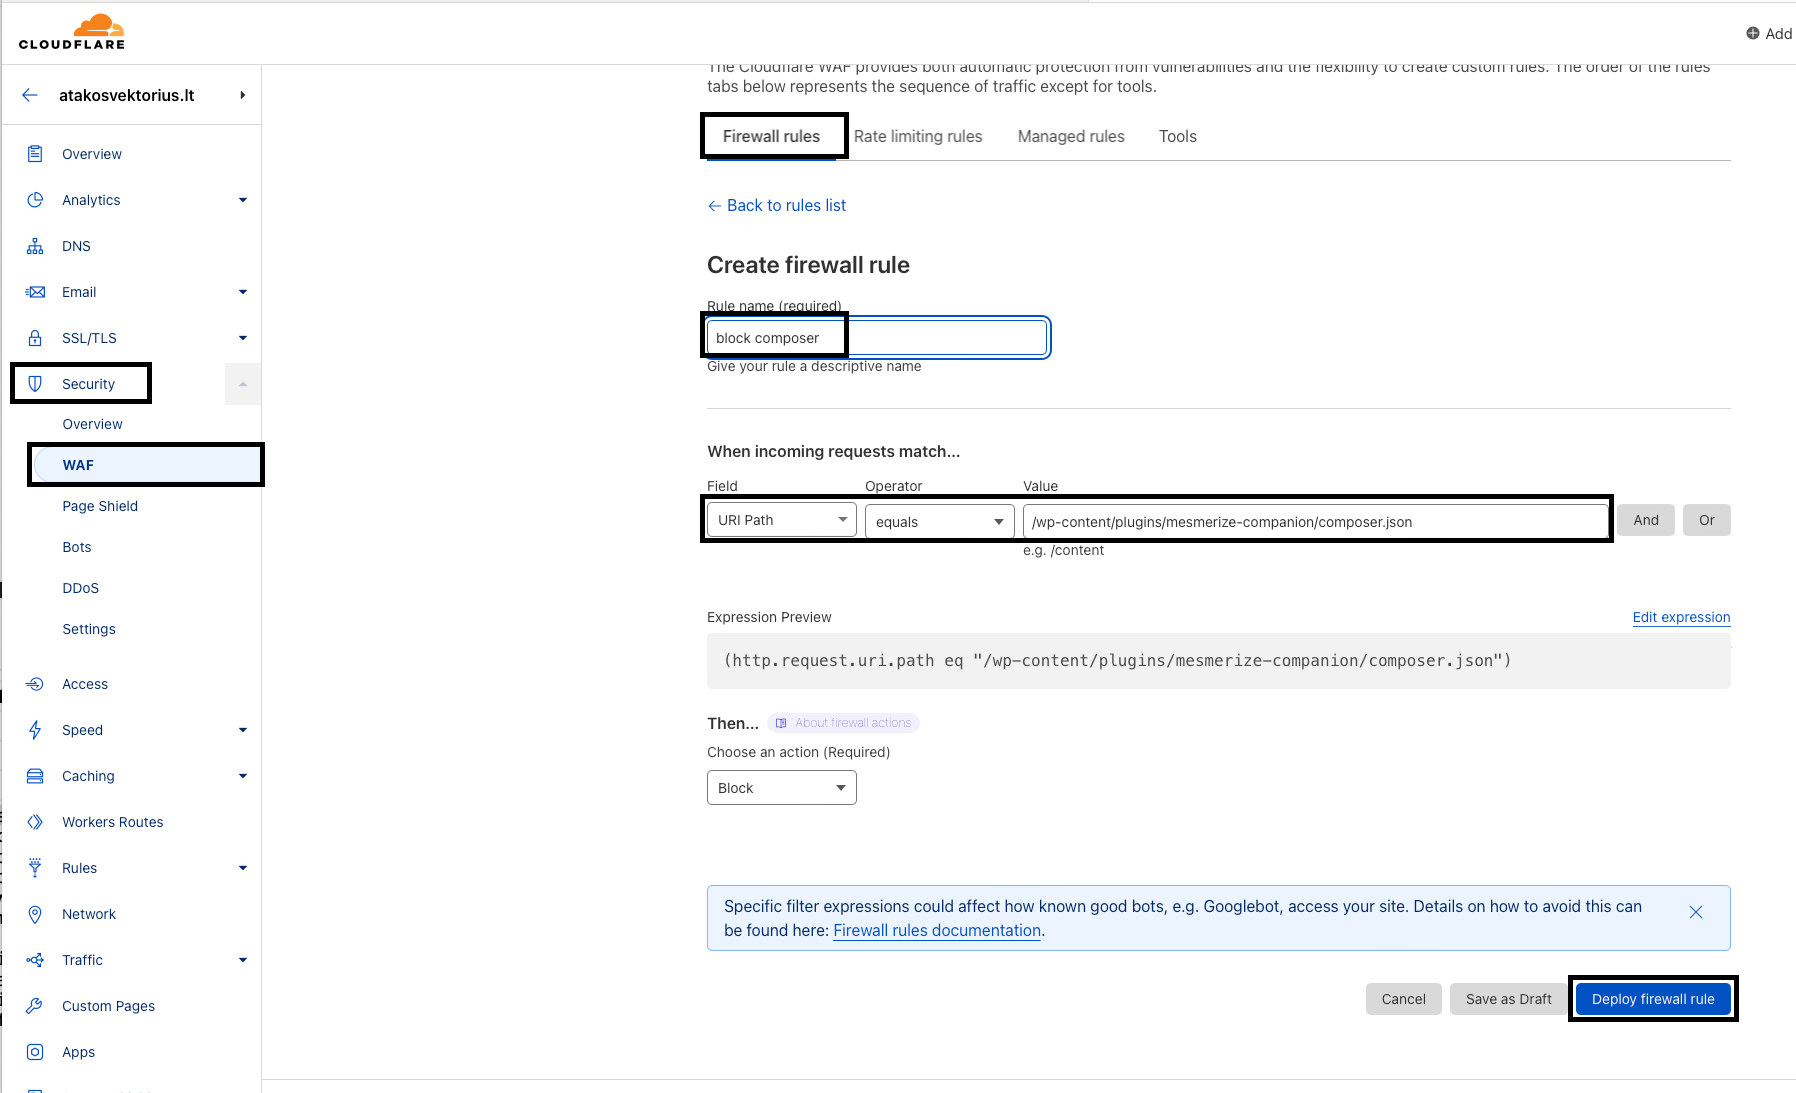
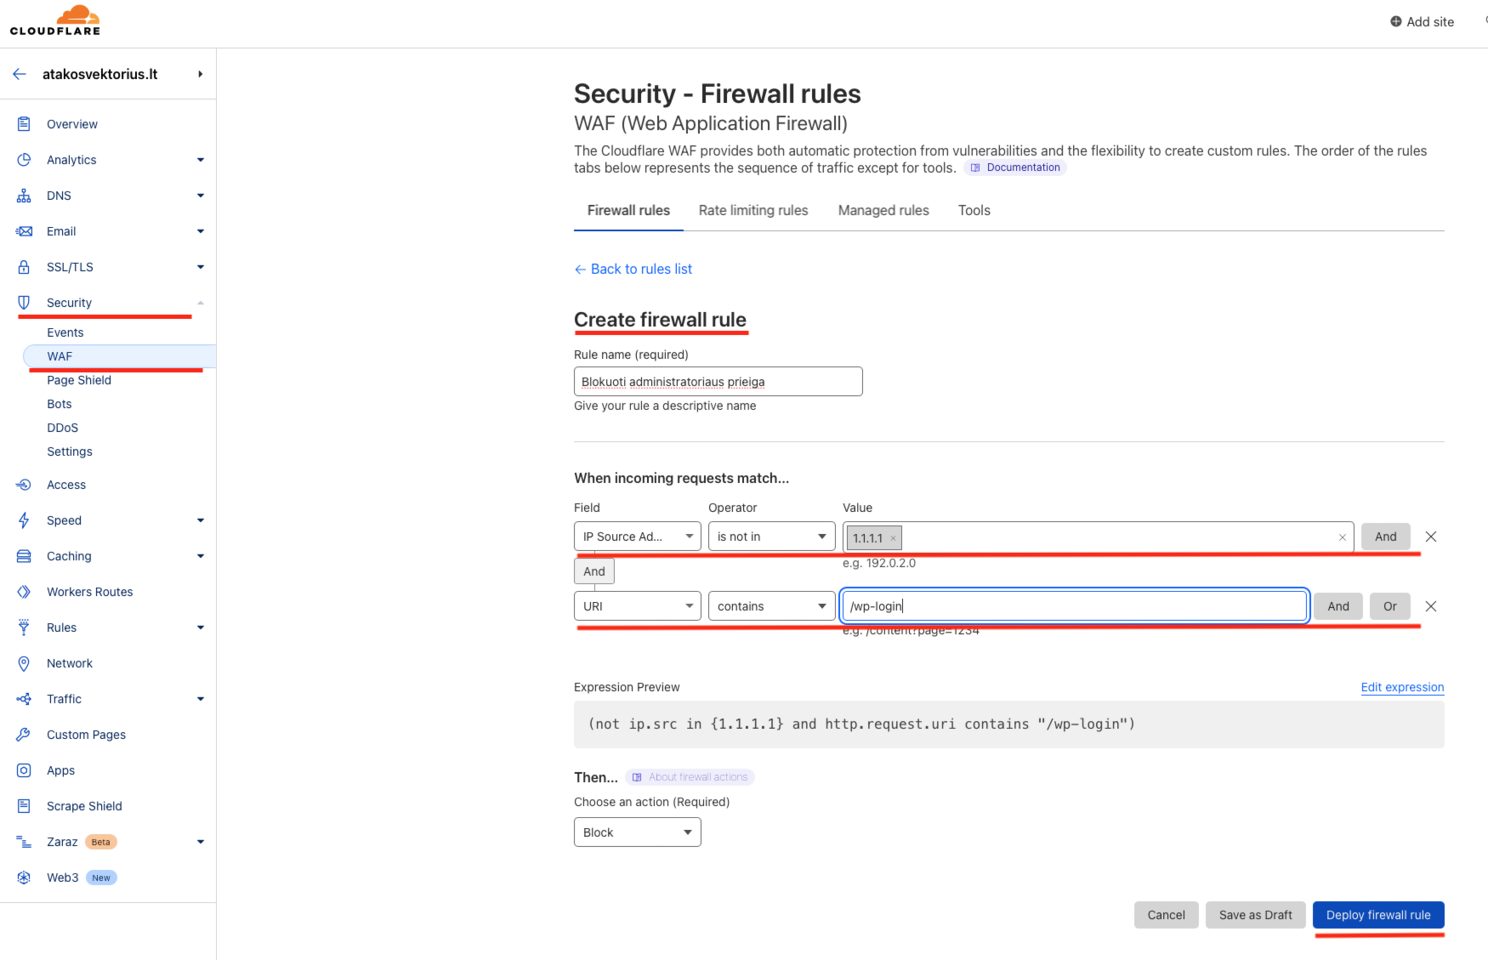
WAF

diff --git a/cloudflare.html b/cloudflare.html
@@ -7,7 +7,7 @@
     <meta name="description" content="Pažeidžiamumų įvertinimas su technologiškai vienu pažangiausiu DAST įrankiu rinkoje" />
     <meta name="keywords" content="Asmens duomenų apsauga, duomenų tvarkymo saugumas, pritaikytoji ir standartizuotoji duomenų apsauga, SDLC, pažeidžiamumu įvertinimas, įsiskverbimo į IT sistemas testavimas, etiškas įsilaužimas, kibernetinis saugumas" />
     <meta name="author" content="Tomas Savėnas" />
-    <title>Kas tai yra Cloudflare?</title>
+    <title>Netinkama saugumo konfigūracija A05:2021</title>
     <link href="css/styles.css" rel="stylesheet" />
     <link rel="stylesheet" href="css/aos.css" />
     <link rel="icon" type="image/x-icon" href="assets/img/favicon.png" />
@@ -55,14 +55,14 @@
                             <div class="row gx-5 justify-content-center">
                                 <div class="col-lg-10 col-xl-8">
                                     <div class="single-post">
-                                        <h1>Griežtesnė Cloudflare apsauga</h1>
+                                        <h1>Netinkama saugumo konfigūracija A05:2021</h1>
                                         <p class="lead">Kokius tris žingsnius reikia atlikti po domeno nukreipimo į Cloudflare?</p>
                                         <div class="d-flex align-items-center justify-content-between mb-5">
                                             <div class="single-post-meta me-4">
                                                 <img class="single-post-meta-img" src="assets/img/demo/savenas.jpg" />
                                                 <div class="single-post-meta-details">
                                                     <div class="single-post-meta-details-name">Tomas Savėnas</div>
-                                                    <div class="single-post-meta-details-date">Lapkričio 27 d. 5 min. skaityti</div>
+                                                    <div class="single-post-meta-details-date">Vasario 09 d. 4 min. skaityti</div>
                                                 </div>
                                             </div>
                                             <div class="single-post-meta-links">
@@ -71,66 +71,115 @@
                                                 <a href="https://www.linkedin.com/in/savenas/"><i class="fab fa-linkedin fa-fw"></i></a>
                                             </div>
                                         </div>
-                                            <h2>Įvadas</h2>
-                                            <p>Cloudflare yra viena populiariausių interneto svetainių apsaugos priemonių rinkoje. Tai lyg skydas priešais svetainės serverį, kuris naudoja Reverse Proxy technologiją atlikti šias tris pagrindines funkcijas:</p>
-                                            <ul>
-                                                <li>Anti-DDoS apsaugą, kurios metu yra paslepiamas serverio IP adresas ir sulaikomas didelis kiekis kenksmingo srauto;</li>
-                                                <li>CDN, sparčiau aptarnauti nutolusius regionus;</li>
-                                                <li>WAF, skirta riboti prieigą prie aplikacijos ir apsaugoti nuo kenkėjiško kodo pvz.: SQLi, XSS, LFI ir kitų injekcijų.</li>
-                                            </ul>
-                                            <p>Žemiau pateikiama vaizdo iškarpa su Reverse Proxy srauto schema.</p></br>
-
+                                            <p>Pratęsime informacinių sistemų atakos vektorių temą, šį kartą kalbėsime detaliau apie netinkamos saugumo konfigūracijos atvejus pagal OWASP A05:2021.</p>
+                                            <h2>Problema</h2>
+                                            Iš visų Lietuvos interneto svetainių TVS yra 67514 ir beveik 70% šių sistemų turėjo atvirą administratoriaus prieigą tokia kaip "/wp-login.php" ar "/administrator" [1]. Tai nėra laikoma saugia konfigūracija, nes slaptažodžius per laiką gali atspėti.</p>
                                             <img class="img-fluid mb-2 rounded" src="assets/img/demo/CDN.png" />
-                                            <div class="small text-gray-500 text-center">Vaizdo iškarpa koreguota: Cloudflare</div>
                                             <div class="single-post-text my-5">
-                                            <p>Jeigu dar nesate nukreipė savo domeno į Cloudflare, padarykite tai dabar užsiregistruodami nemokamai: https://dash.cloudflare.com/sign-up</p>
-                                            <p>CDN ir Anti-DDoS apsauga pradeda veikti iškarto po nukreipimo, o kitas funkcijas reikia patiems įjungti.</p> 
-
-                                            <p>Taigi, srautas jau yra nukreiptas į Cloudflare infrastruktūrą ir žinome kaip tai veikia, toliau eikime prie trijų žingsnių konfigūracijos skirtos dar labiau sugriežtinti apsaugą.</p>
-
-                                            <h2>Pirmas žingsnis</h2>
-
-                                            <p>Reikia nustatyti ugniasienės saugančios Jūsų serverį taisykles white-list principu. Cloudflare serverio IP adresai: nuorodą https://www.cloudflare.com/ips-v4 leisti į prievadus 80, 443, o visą kitą srautą uždrausti. Žemiau pateikiamas pavyzdys Apache konfigūracija .htaccess faile.</p>
-                                            <img class="img-fluid mb-2 rounded" src="assets/img/demo/htaccess.png" />
-                                            <div class="small text-gray-500 text-center">Vaizdo iškarpa: autoriaus</div>
-                                            <div class="single-post-text my-5">
-
-                                            <p>Šis žingsnis yra labai svarbus, nes patyrę programišiai gali surasti serverio IP adresą DNS istoriniuose įrašuose ir rankinių būdų nukreipti srautą. Žemiau pateikiamas srauto diagramos pavyzdys.</p>
-                                                                          
-                                            <img class="img-fluid mb-2 rounded" src="assets/img/demo/bypass.png" />
-                                            <div class="small text-gray-500 text-center">Vaizdo iškarpa koreguota: Cloudflare</div>
-                                            <div class="single-post-text my-5">
-                                            <h2>Antras žingsnis</h2>
-                                            <p>Cloudflare saugumo savitarnoje reikia pakeisti iš TLS 1.0 į TLS 1.2 minimiai palaikomą versiją. Šį konfigūracija jau nėra laikoma saugią, nes piktavaliai vietiniame tinkle galėtų įsiterpti į šifruoto ryšio sesiją ir pavogti duomenis.</p>
-                                            <img class="img-fluid mb-2 rounded" src="assets/img/demo/tls.png" />
-                                            <div class="small text-gray-500 text-center">Vaizdo iškarpa: autoriaus</div>
-                                            <div class="single-post-text my-5">
-                                           
-                                            <h2>Trečiasis žingsnis</h2>
-                                            <p>Cloudflare WAF savitarnoje reikia sukurti prieigos valdymo taisykles white-list principu. Savo IP adresus leisti, o kitiems drausti prie administratoriaus valdymo paneles ar kitų jautrių resursų.</p>
-                                            <img class="img-fluid mb-2 rounded" src="assets/img/demo/waf.png" />
-                                            <div class="small text-gray-500 text-center">Vaizdo iškarpa: autoriaus</div>
-                                            <div class="single-post-text my-5">
-                                            <h2>Pabaigai</h2>
-
-                                            <p>Šiuo metu aktuali problema yra interneto robotai. Tai tampa iššūkiu internetinia verslui - kaip atskirti žalingus nuo naudingu? Cloudflare siūlo naudoti "Bot Fight Mode", tačiau ši priemonė kaip ir OWASP taisyklės yra sofistikuoti sprendimai. Tikėtina, kad kai kuriuos užklausos bus identifikuotos klaidingai.
-                                            </p>
 
                                             <p>
-                                                Nors iš pirmo žvilgsnio skydas atrodo kaip greitesnis ir lengvesnis sprendimas, bet efektyviau yra pašalinti spragas iš programinio kodo.
-                                            <p>  
+                                            Nors administratoriaus slaptažodis ir bus sudėtingas, tačiau spėliojimas yra nereikalinga grėsmė, kurią galimą lengvai užkardanti. Tai galima padaryti paslaugų tiekėjo nustatymuose. Žinoma jie gali skirtis, o kai kurie tiekėjai turi papildomos apsaugos priemonių, taigi apžvelkime tiekėjus.</p>
+                                            <h2>Tyrimas
+                                            </h2>
+                                            <p>Norime pasiūlyti rekomendacijas, tam mes atlikome tyrimą suprasti kaip talpinamos Lietuvos interneto svetainės. Peržiūrėjome maždaug turimų 120,000 domenų su lt galūnę ir žemiau pateikiame dešimtuką paslaugų tiekėjų:</p>
+                                            <img class="img-fluid mb-2 rounded" src="assets/img/demo/ASN.png" />
+                                            <div class="small text-gray-500 text-center">Tiekėjų autonominės sistemos</div>
+                                            <div class="single-post-text my-5">
+                                            <h2>Sprendimas</h2>
+                                            Kaip matome didžioji dalis yra prieglobos tiekėjai, o kito tyrimo metu sužinojome dažniausiai sutinkama Apache paslauga. Todėl apriboti prieigą galime per .htacces failą, čia rasite instrukcijas, kurias sudarė IV [2].</p>
+                                            <p>
+                                            Toliau sąraše matome Cloudflare, tai yra viena populiariausių interneto svetainių apsaugos priemonių rinkoje. Tai lyg skydas priešais svetainės serverį, kuris naudoja Reverse Proxy technologiją atlikti šias pagrindines funkcijas:
+                                            <ul>
+                                                <li>Anti-DDoS | paslepiamas pirminis serveris ir sulaikomi kenksmingi paketai;</li>
+                                                <li>CDN | sparčiau užkraunami statiniai failai;</li>
+                                                <li>WAF | kenksmingo kodo filtras ir prieigos kontrolė;</li>
+                                                <li>Bot fight | interneto robotų prevencija.</li>
+                                            </ul>
+                                            </p>
+                                            <img class="img-fluid mb-2 rounded" src="assets/img/demo/Cloudflare.png" />
+                                            <div class="small text-gray-500 text-center">Cloudflare topologija</div>
+                                            <div class="single-post-text my-5">
 
-                                                Paprastai tvarkyti sistemos neskubama, nes nėra šalia profesionalios pagalbos.
+                                            <p>Nors Cloudflare populiari, tačiau ne visi išnaudoja šios apsaugos potencialą. Toliau aptarsime plačiau neapankamos saugumo konfigūracijos sprendimus siejamus su šią paslauga.</p>
+
+                                            <h2>Trys žingsniai</h2>
+
+                                            <p>Nors DDoS L3/4 apsauga veikia automatiškai, tačiau dauguma kitų priemonių skirtų apsaugoti HTTP protokolo lygyje neįjungta, tai atlikti turime patys.
+                                            Žemiau pateikiami trys pagrindiniai žingsniai, kuriuos reikia atlikti po DNS nukreipimo į Cloudflare.</p> 
+
+                                            <h2>Prieinamas pirminis serveris</h2>
+                                            <p>Reikia apriboti pirminio serverio prieiga per ugniasienę ar paslaugos tiekėją. Leiskite Cloudflare edge serverių IP adresus: [3], o visą kitą srautą uždrauskite.</p>
+                                            <img class="img-fluid mb-2 rounded" src="assets/img/demo/htaccess.png" />
+                                            <div class="small text-gray-500 text-center">Apache .htaccess konfigūracija</div>
+                                            <div class="single-post-text my-5">
+
+                                            <p>Tai galioja nepriklausomai ar tai Cloudflare ar kitas "Reverse Proxy". To nepadarius paliekama galimybė apeiti apsaugą, o tai padaryti galima nesunkiai rankiniu būdu nukreipti HTTP srautą radus IP adresą DNS istorijoje.</p>
+                                                                          
+                                            <img class="img-fluid mb-2 rounded" src="assets/img/demo/dns.png" />
+                                            <div class="small text-gray-500 text-center">DNS istorija šaltinis virustotal.com</div>
+                                            <div class="single-post-text my-5">
+                                            
+                                            <p>Žemiau matome rezultatą HTTP 403, kai kreipiamas į administratoriaus nuorodą, o tada rankiniu būdu nukreipiama HTTP užklausą ir jį nėra blokuojama.</p>                               
+                                            <img class="img-fluid mb-2 rounded" src="assets/img/demo/403.png" />
+                                            <div class="single-post-text my-5">
+                                
+                                            <h2>Administratoriaus valdymo pultas</h2>
+                                    
+                                            <p>Kaip anksčiau aptarėme dėl prieigos iš tam tikrų IP adresų prie "/wp-login" ar "/administrator" reikia riboti. Taigi Cloudflare saugumo savitarnoje prie WAF reikia sukurti prieigos valdymo taisyklę iš dviejų sąlygų:</p>
+                                            <p>- Jeigu tai ne mūsų IP adresas ir URI turi administratoriaus nuorodą tuomet blokuoti.</p>
+                                            <img class="img-fluid mb-2 rounded" src="assets/img/demo/waf.png" />
+
+                                            <div class="single-post-text my-5">
+
+                                            <h2>Minimali TLS versija</h2>
+
+                                            <p>Nors TLS 1.0 ir 1.1 konfigūracija jau nėra laikoma saugia ir naršyklių palaikančių jau praktiškai nebeliko, tačiau Cloudflare vis dar palieka įjungta, Jeigu jūsų klientai pat pat nenaudoja minėtų versijų, tuomet Cloudflare saugumo savitarnoje reikia pakeisti minimalią iš TLS 1.0 į TLS 1.2. Reikėtų pastebėti tai, kad PCI-DSS atiktis reikalauja ne mažesnės negu TLS 1.2.
+                                            <img class="img-fluid mb-2 rounded" src="assets/img/demo/tls.png" />
+
+                                            <div class="single-post-text my-5">
+                                            </p>
+
+                                            <p> Taigi tai buvo trys pagrindinės netinkamos saugumo konfigūracijos problemos.
+                                            
+                                            <h2>Kita</h2>
+
+                                            <p>  Žemiau išvardintoms priemonėms naudoti reikalingas tinkamas pasiruošimas. Priešingu atveju priemones sukels nepatogumu ir užims laiko, dažnu atveju reikia tvarkyti "False Positive" pranešimus.
+                                            </p>
+                                            <p>
+                                                Jos gali padaryt žalos įprastų naudotojų užklausoms, pavyzdžiui klientui gali būti sutrukdyta apsipirkti. Po kelių bandymų jam gali dingti kantrybė, o jus prarasite dalį pajamų. 
+                                            </p>
+                                            <p>
+                                            Reikia įvertinti kylančių grėsmių lygį ir pritaikyti tik tam tikras taisykles ar funkcijas, būtų geriau jeigu galima užtaisyti spragas programiniame kode ar sistemos konfigūracijoje.
+                                            </p>
+
+                                            <h2>Interneto robotai </h2>
+
+                                            <p>                                                  
+                                              Daugiau nei pusė viso interneto srauto sudaro šie automatizuoti instrukcijų rinkiniai, kuriems nereikia intensyvių skaičiavimo resursų [4].  Robotai gal atlikti pažeidžiamumų skenavimus, spėlioti esamus prisijungimus, registruoti naujus vartotojus, ar tiesiog varginti informacinę sistemą. Įprastai interneto robotai nevykdo naršyklėms būdingų JavaScript funkcijų.
+                                          </p>
+                                          <p>
+                                            Cloudflare siūlo naudoti "Bot Fight Mode", tačiau ši technologija yra sudėtinga, "Reverse Proxy" infrastruktūra yra paskirstyta, o HTTP užklausos gali būti asinchroninės ir lygiagrečios. Šią funkciją geriau naudoti tik tam tikroms nuorodoms ar sąlygoms, o ne visai TVS.</p>
+                                            <p>
+                                            Reikėtų pastebėti tai, kad yra galimybė apeiti "Bot Fight Mode" apsaugą su "begalve" naršyklė, kuri įvykdys JS kodą ir atliks tolimesnius veiksmus.
                                             </p>
 
 
+                                            <h2>OWASP WAF taisyklės</h2>
 
-                                            <h5>                                                  
-                                                Kviečiame registruotis pažeidžiamumų įvertinimui su technologiškai vienu pažangiausiu DAST įrankiu.
+                                            <p>                                                  
+                                             WAF sprendimai taip pat yra komplikuoti, dėl "Look Behind" ir "Look Ahead" funkcijų, kurias leidžią sudaryti PCRE reguliariųjų užklausų variklis. Nors WAF gali padėti apsisaugoti nuo SQLi, XSS, LFI ir kitų injekcijų, tačiau reikia atsargumo dėl dviejų priežasčių:
+                                          </p>
+                                          <p>
+                                            <ul>
+                                                <li>Gali būti klaidingai užblokuos klientų užklausos. Sesijos duomenims perduoti tinklu aplikacija naudoja atsitiktinius simbolius, kurie kartais kaip žvaigždės susilygiuoja į reikšmingą seką, kuri identifikuojama kaip kenksminga. Siūlome pradėti nuo stebėjimo režimo: "Simulate" arba "Alert only", su sąlyga, kad jos tinka pagal grėsmės lygį. Taip lengviau bus suvaldyti situaciją, nes "Alert only" režimas gali sukelti kitą problemą.</li>
+                                                <li>Gali vėlinti užklausų atsakymo laiką. Nors tai nėra blokavimo režimas, tačiau srautas teka per WAF sluoksnį, todėl reikia įvertinti tai, kad užklausa užtruks apdoroti. Cloudflare dabar naudoja RE2 variklį, kuris yra labai greitas ir neturi rekursijų. Nors iki 2019 metų naudojo PCRE, po vieno nesėkmingo pakeitimo, kuris sukėlė DoS [6]. Kiti WAF sprendimai naudoja PCRE ir jiems galiotų šis pažeidžiamumas.
+                                            </li>
+                                        </ul>
+                                            <p>
+                                            Taigi prie WAF apsaugos reikės praleisti nemažai laiko, ir ko gero papildomas žmogus turėtų stebėti ir analizuoti srautą nuolat. Taip pat reikėtų turėti omenyje, kad reguliariąsias užklausas galima apeiti, taip pat ir taisykles. Žinant tai nereikia bandyti aprėpti kiek įmanoma platesnį scenarijų, nes taisyklės taps sudėtingos.</p>
+                                            <img class="img-fluid mb-2 rounded" src="assets/img/demo/regex.png" />
 
-                                            </h5>
-
-
+                                            <div class="single-post-text my-5">
 
 
                                         
